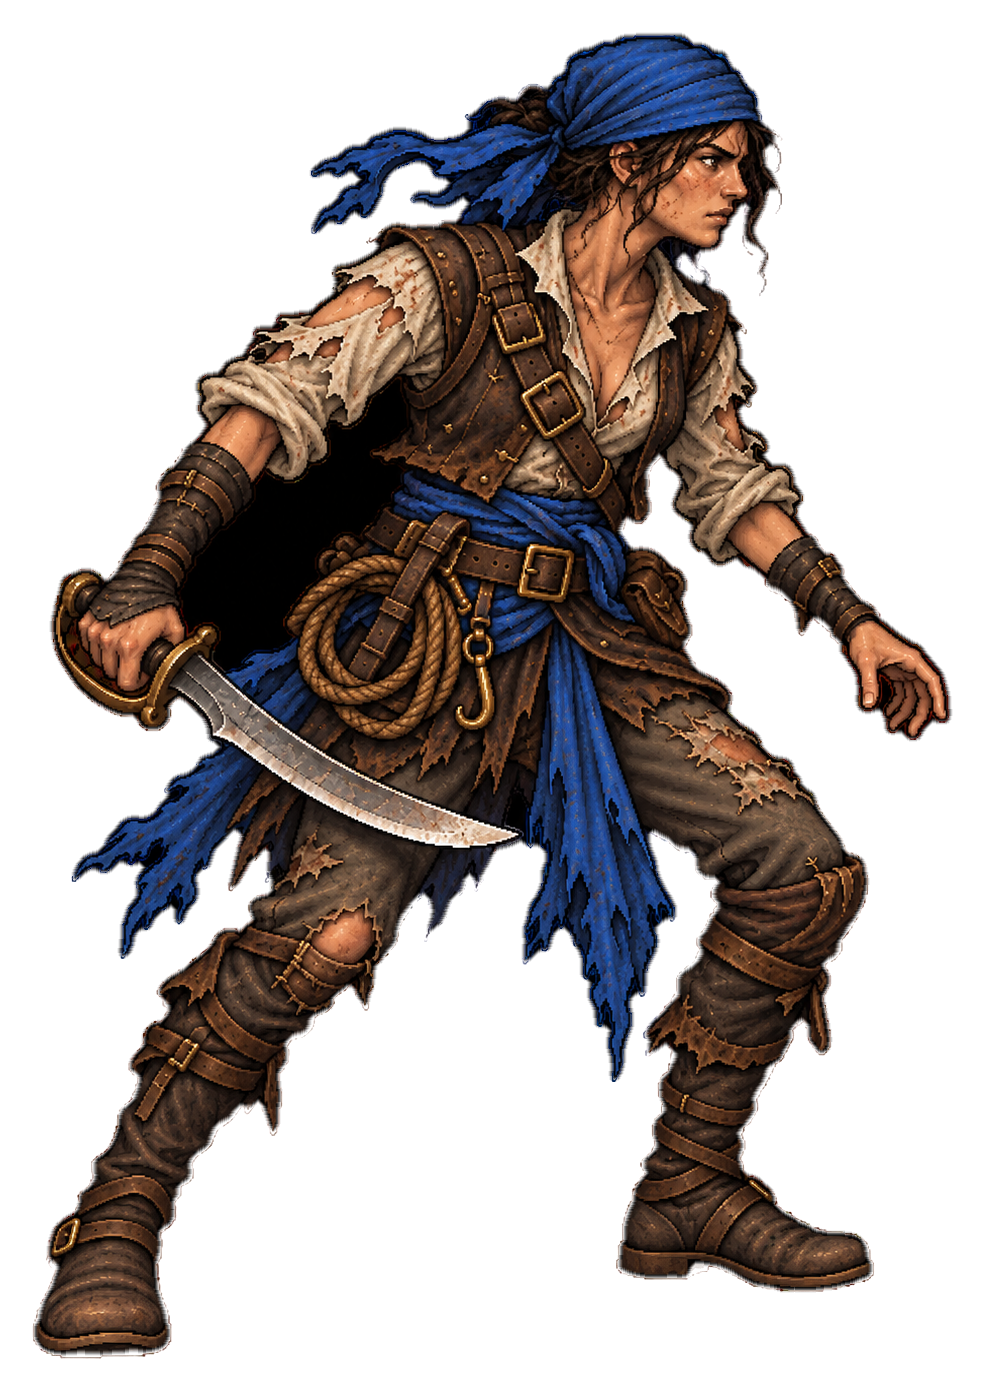
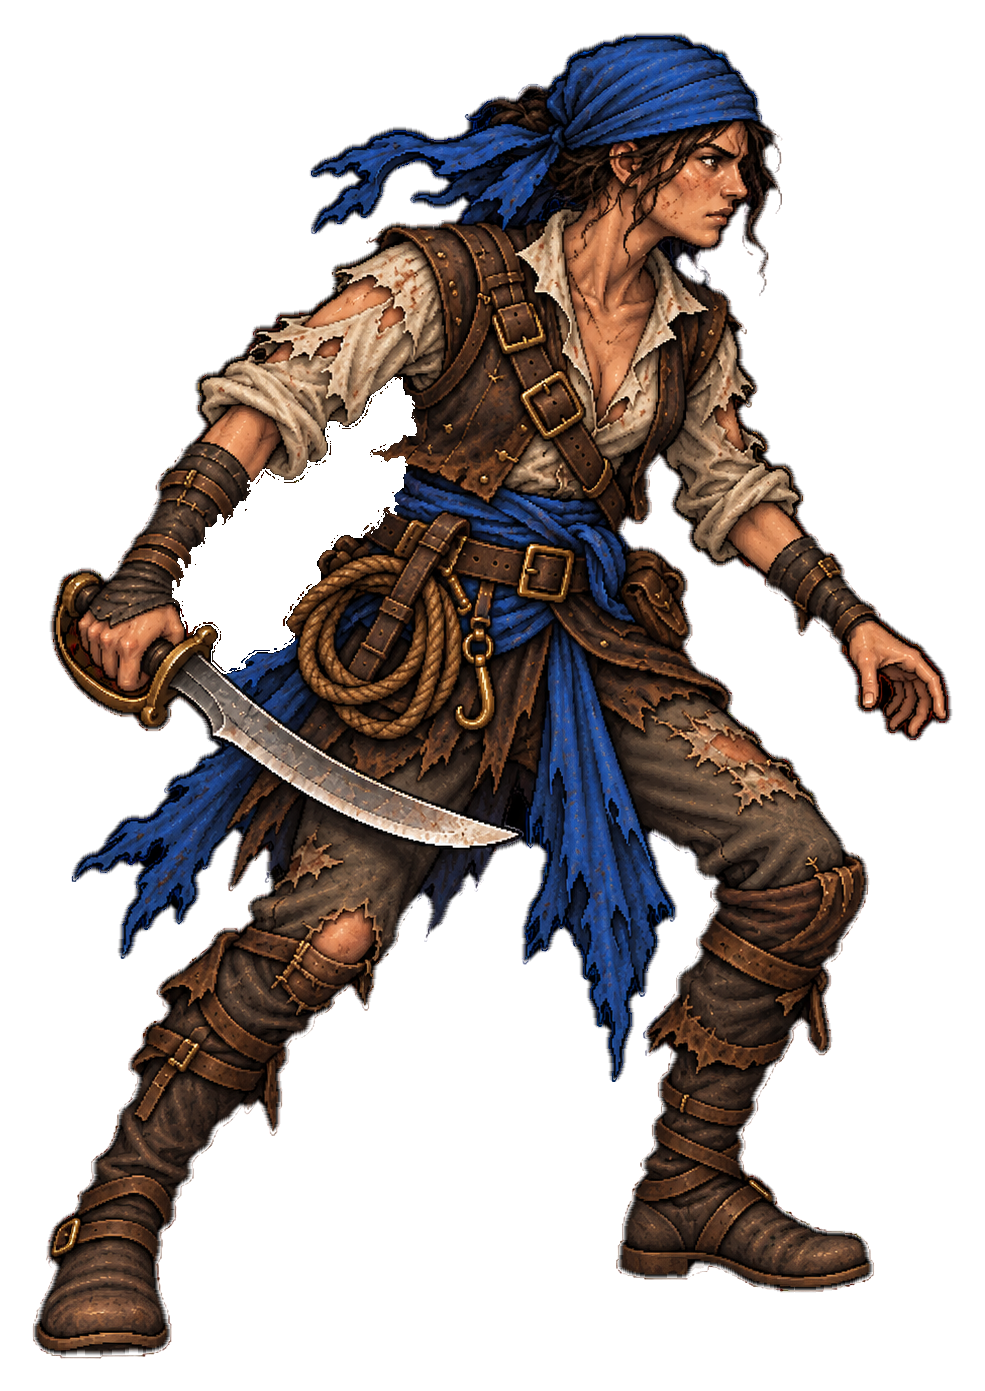
Harita 2 V3-V5: Drowned Knight, Reaver Archer ve Reef Wrecker kadın varyasyonları; V1-V2 kapalı boşluklar temizlendi
drowned_knight_f, reaver_archer_f, reef_wrecker_f içe aktarıldı (karakter + avatar). Kol/yay/sapan arasındaki kapalı siyah boşluklar saydamlaştırıldı. Oyuna bağlanmadı.

Changed region(s): [[0.1523, 0.2782, 0.4264, 0.4946]]

diff --git a/tools/import-mobs.py b/tools/import-mobs.py
@@ -78,6 +78,9 @@ HEADS = {
     # Kadın varyasyonları (V1-V5, 2026-10-26)
     'corsair_cutlass_f': (620, 0, 260),
     'corsair_slinger_f': (608, 0, 280),
+    'drowned_knight_f': (565, 0, 300),
+    'reaver_archer_f': (540, 225, 300),
+    'reef_wrecker_f': (635, 10, 285),
 }
 
 # Havada süzülen moblar: içerik bu oranda yüksekliğe çıkar, altı boş kalır (ekranda gövde yerden yüksekte durur; gölge yerde kalır).
